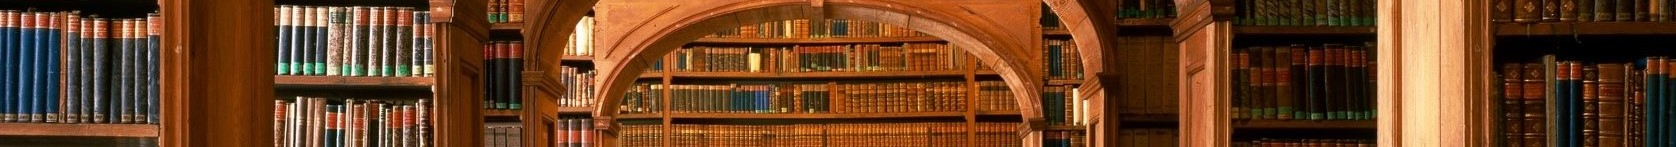
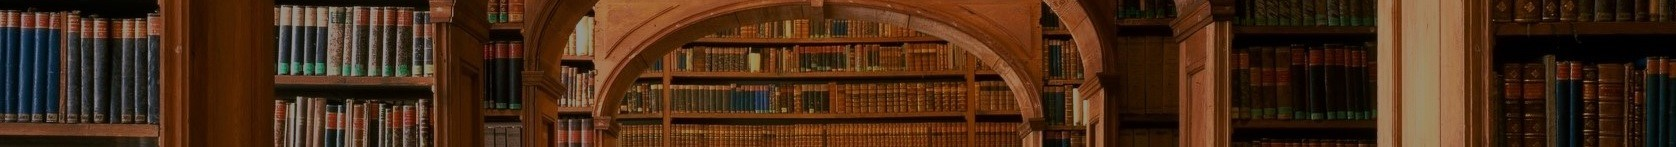
.

diff --git a/style.scss b/style.scss
@@ -1,5 +1,6 @@
 $color1:rgb(249, 245, 246);
 $sec-color: rgb(248, 232, 238);
+$thrd-color: rgb(101, 84, 175);
 * {
     font-family: 'Roboto Slab', serif;
     box-sizing: border-box;
@@ -33,7 +34,7 @@ ul {
             color: rgb(149, 117, 222);
 
         span {
-            color: rgb(101, 84, 175);
+            color: $thrd-color;
         }
     }
     }
@@ -49,11 +50,17 @@ ul {
         ul {
             display: flex;
             margin-right: 20px;
-            
+            font-size: 19px;
+            color: $thrd-color;
             li {
                 justify-self: flex-end;
                 position: relative;
                 margin: 0px 15px;
+                 &.buttons {
+                    margin: 0px 5px;
+                    width: 35px;
+                    
+                 }
 
                 ul {
                     display: none;
@@ -77,8 +84,11 @@ ul {
     section {
         width: 100%;
         height: 350px;
+        justify-self: center;
         img {
             margin: 0px auto;
+            width: 100%;
+           
         }
     }
 }

diff --git a/index.html b/index.html
@@ -15,6 +15,8 @@
             <h1 class="title"><span>Ed</span>ua</h1>
             <nav class="nav">
                 <ul class="links">
+                    <li class="buttons"><button class="btn" id="register">Register</button></li>
+                    <li class="buttons"><button class="btn" id="log-in">Log in</button></li>
                     <li class="ballina">Ballina</li>
                     <li class="rreth-nesh">Rreth nesh</li>
                     <li class="shërbimet">
@@ -31,7 +33,7 @@
             </nav>
     </header>
     <section class="photo-bg">
-        <img src="assets/images/library.jpg" alt="" class="images">
+        <img src="assets/images/library2.jpg" alt="photo of a library, as background." class="images">
     </section>
 </body>
 </html>

diff --git a/style.css b/style.css
@@ -38,6 +38,8 @@ ul {
   header ul {
     display: flex;
     margin-right: 20px;
+    font-size: 19px;
+    color: rgb(101, 84, 175);
   }
   header ul li {
     justify-self: flex-end;
@@ -59,6 +61,7 @@ ul {
   section {
     width: 100%;
     height: 350px;
+    justify-self: center;
   }
   section img {
     margin: 0px auto;
